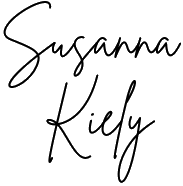
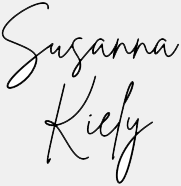
Fix typo and adjust background of client signature.

diff --git a/index.html b/index.html
@@ -180,7 +180,7 @@
                 Professional Counselling & Psychotherapy Services
               </h2>
               <p class="section-description">
-                With a person-centered approach, I offer a commpassionate talk therapy to support individuals navigating the effects of trauma, stress, anxiety, and the emotional challenges of everyday life.
+                With a person-centered approach, I offer compassionate talk therapy to support individuals navigating the effects of trauma, stress, anxiety, and the emotional challenges of everyday life.
               </p>
             </div>
             <div id="about-list">
